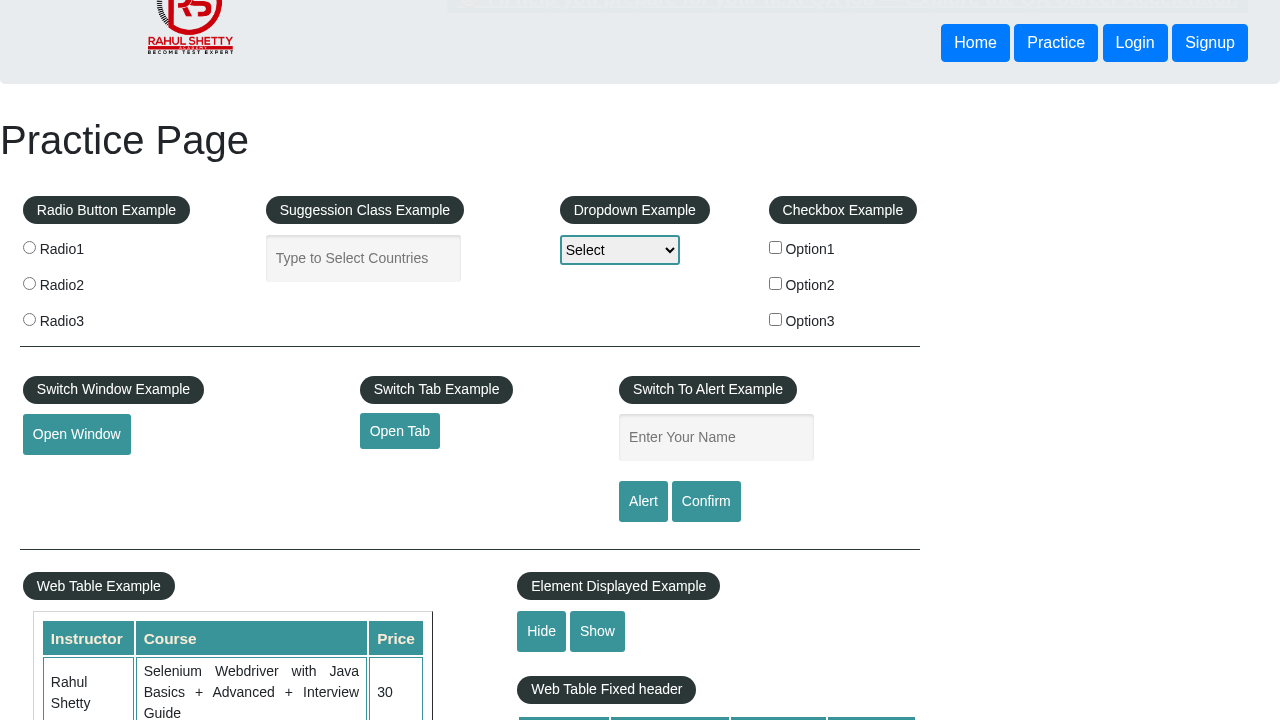
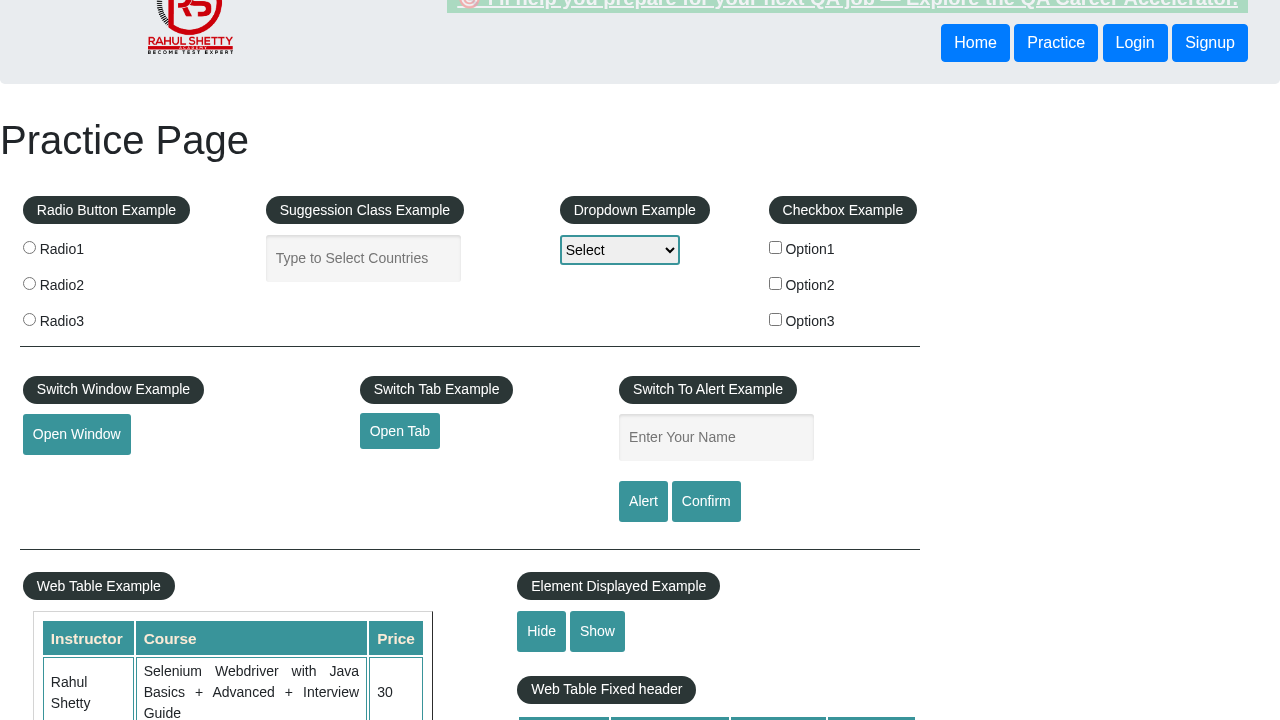
Test

Changed region(s): [[0.3438, 0.0, 1.0, 0.0306]]

diff --git a/tests/UI_Testing/Screenshot&VirtualComparasion/Screenshots.spec.js-snapshots/Screenshots.spec.js b/tests/UI_Testing/Screenshot&VirtualComparasion/Screenshots.spec.js-snapshots/Screenshots.spec.js
@@ -17,7 +17,7 @@ test("Popup validations", async({page})=>
 
 });
 
-test.only("Screenshot & Visual comparision", async({page})=>
+test("Screenshot & Visual comparision", async({page})=>
 {
     await page.goto(BASE_URL, { waitUntil: 'domcontentloaded' });
     const showAndHide = page.locator("#displayed-text");
